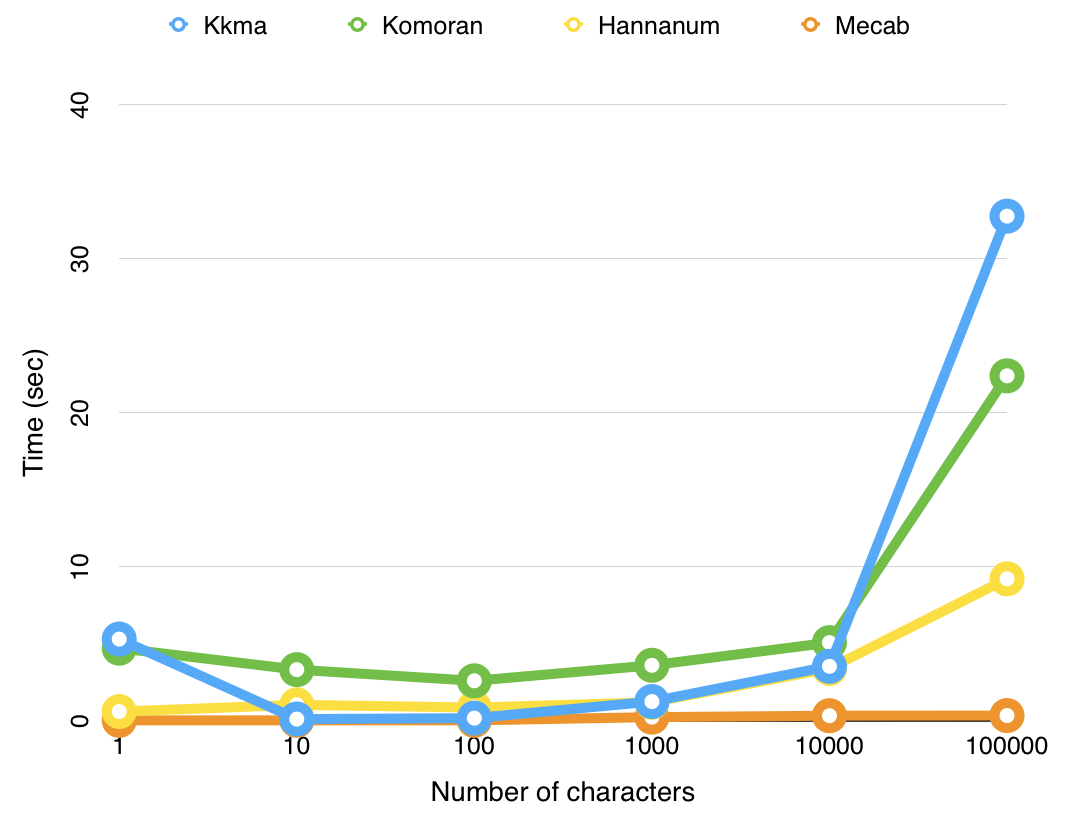
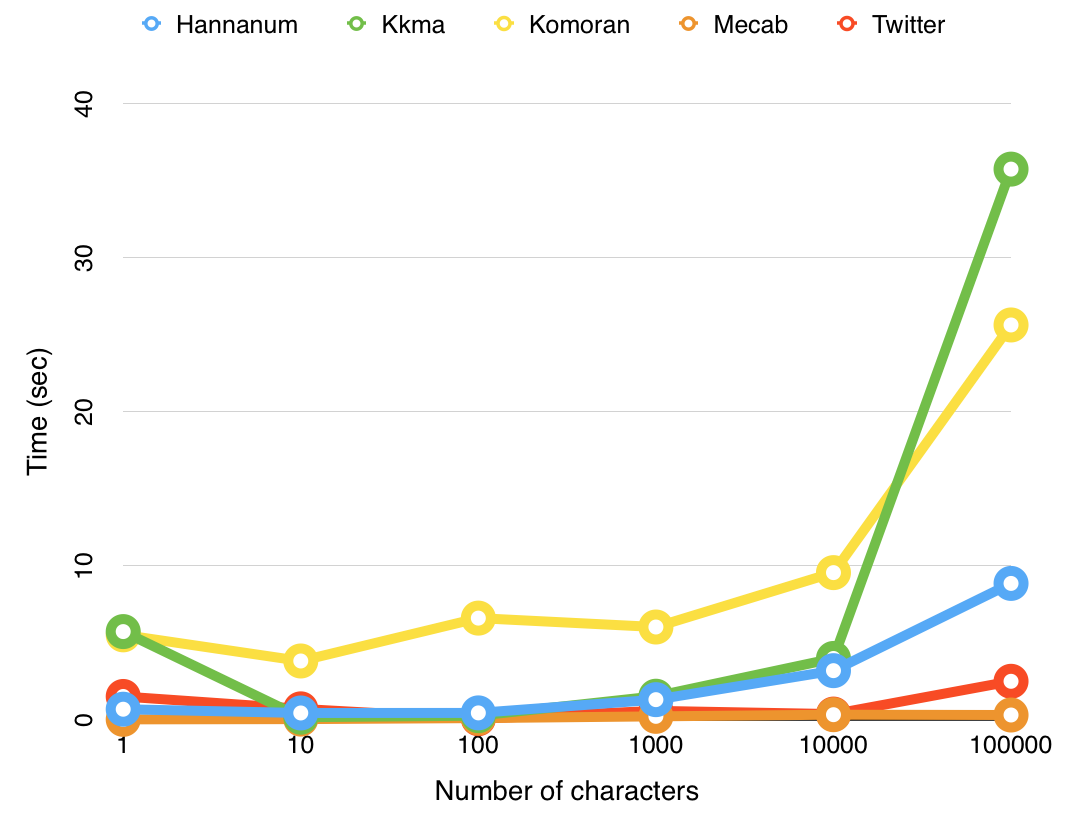
Don't read package index at downloader initial load

diff --git a/konlpy/downloader.py b/konlpy/downloader.py
@@ -96,6 +96,7 @@ class Downloader(object):
 
 
     def status(self, info_or_id=None, download_dir=None):
+        self.index = json.loads(urllib.urlopen(self.INDEX_URL).read().decode())
         """
         Return a constant describing the local status of the given package.
         Status can be one of ``INSTALLED``, ``NOT_INSTALLED``, or ``STALE``.
@@ -213,6 +214,7 @@ class Downloader(object):
 
 
     def _get_info(self, id):
+        self.index = json.loads(urllib.urlopen(self.INDEX_URL).read().decode())
         if self.index.get(id):
             return self.index.get(id)
         else:
@@ -221,7 +223,6 @@ class Downloader(object):
 
     def __init__(self, download_dir=None):
         self._download_dir = download_dir
-        self.index = json.loads(urllib.urlopen(self.INDEX_URL).read().decode())
 
 # Aliases
 _downloader = Downloader(default_download_dir())

diff --git a/docs/api/konlpy.tag.rst b/docs/api/konlpy.tag.rst
@@ -44,6 +44,15 @@ tag Package
     :undoc-members:
     :show-inheritance:
 
+:class:`Twitter` Class
+--------------------
+
+.. automodule:: konlpy.tag._twitter
+    :members:
+    :undoc-members:
+    :show-inheritance:
+
+
 .. seealso::
     `Korean POS tags comparison chart <https://docs.google.com/spreadsheets/d/1OGAjUvalBuX-oZvZ_-9tEfYD2gQe7hTGsgUpiiBSXI8/edit#gid=0>`_
 
